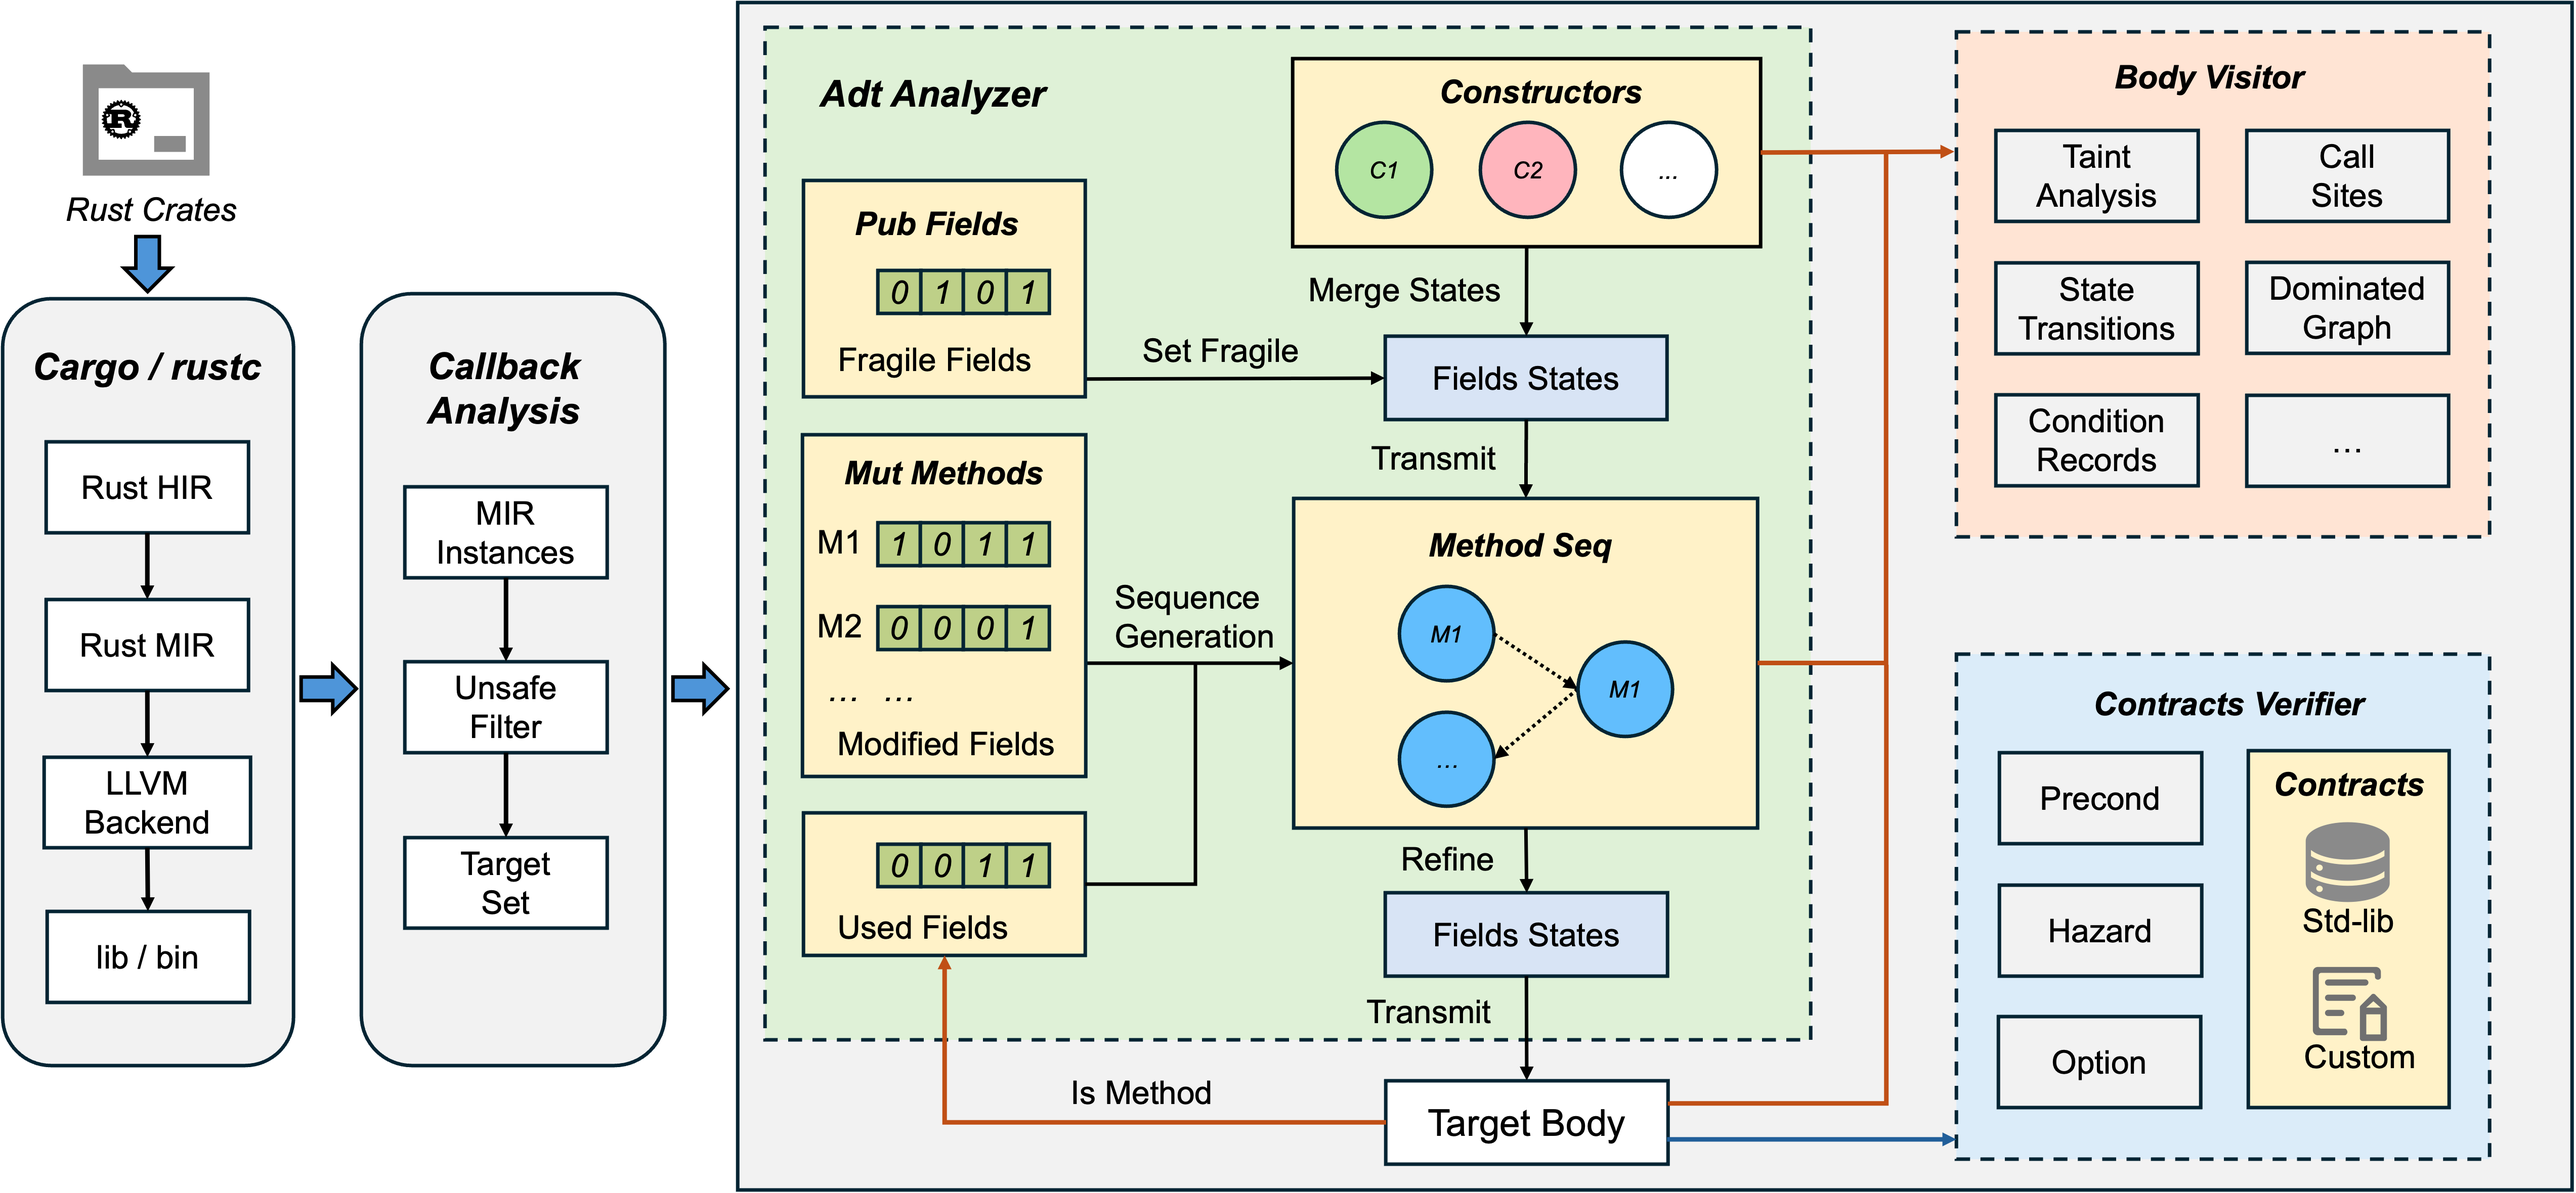
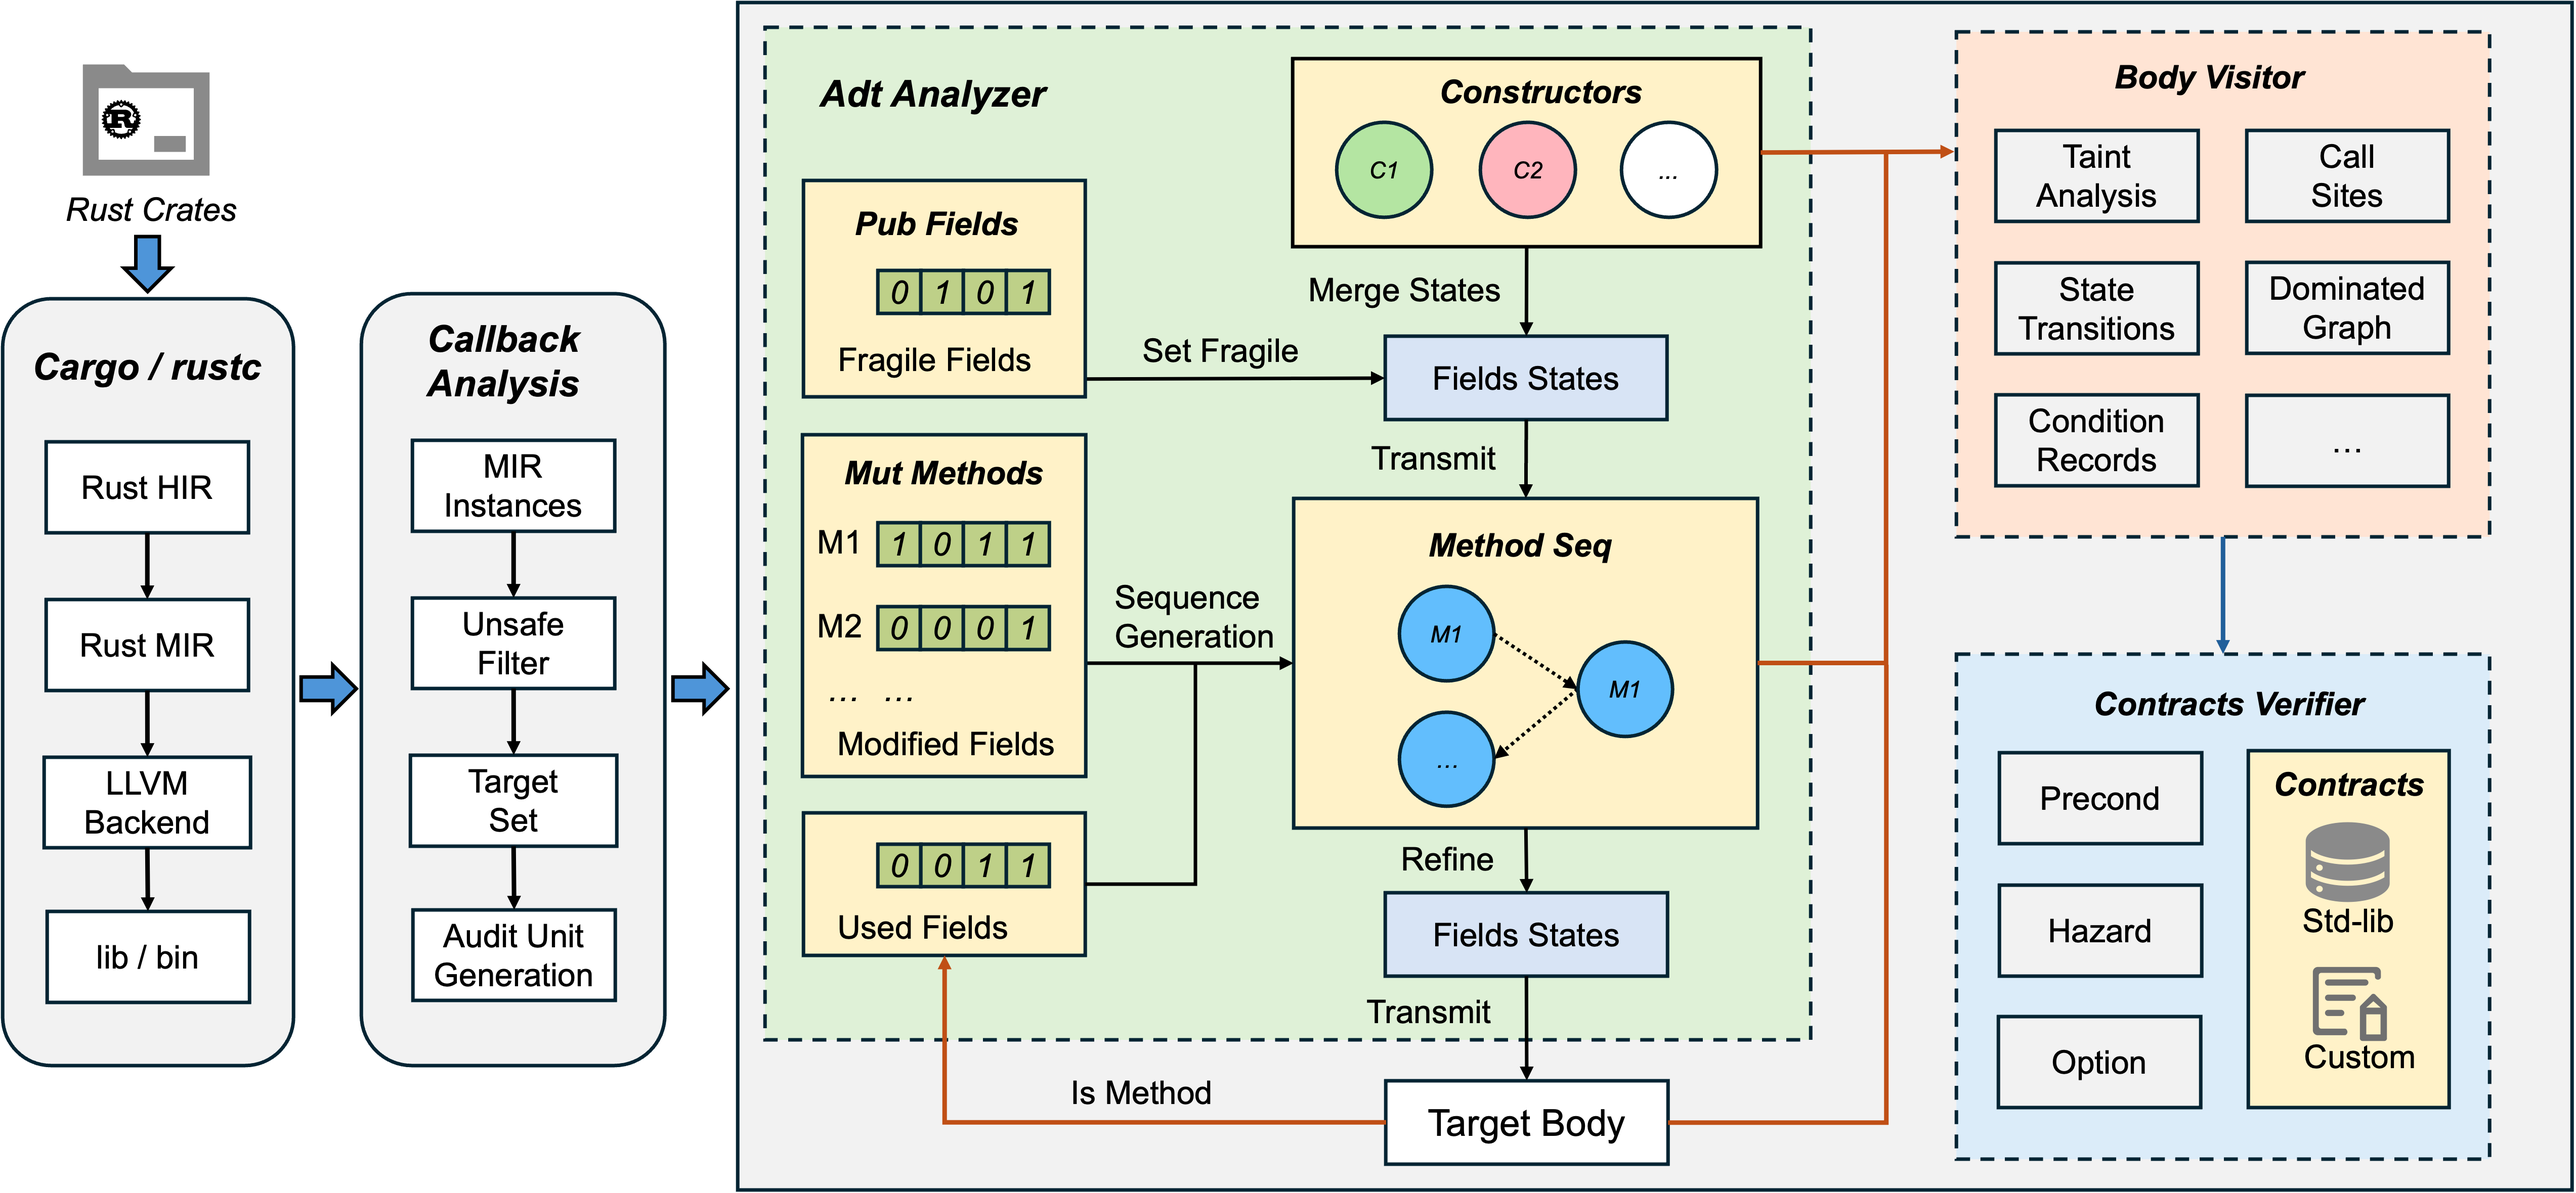
update workflow.png

Changed region(s): [[0.1561, 0.2784, 0.2498, 0.8661], [0.6557, 0.897, 0.7494, 0.9589]]

diff --git a/src/6.4-unsafe.md b/src/6.4-unsafe.md
@@ -110,11 +110,11 @@ Figure 1a-1c shows the specific generation process of the audit units for the co
 
 (1) **Compiler-Integrated Target Identification**: 
 
-RAPx leverages Rust's compiler callback to identify MIR instances and filter unsafe code segments as target set. Then pass the set to **Senryx**.
+RAPx leverages Rust's compiler callback to identify MIR instances and filter unsafe code segments as target set. Corresponding audit unit will be generated for each target, which serves as the basic verification entity for **Senryx**.
 
 (2) **Stateful Field Analysis**
 
-**Senryx** performs data-flow and state tracking on MIR bodies. If target is a method, then its constructors and other mutable methods will be evaluated for field modification patterns.
+**Senryx** performs data-flow and state tracking on MIR bodies. If the audit unit is of a multiple-node type, meaning the target is a method, the ADT analyzer will be loaded. The method's constructors and other mutable methods will be evaluated for field modification patterns.
 
 * **Fragile Fields**: The public fields within a structure are considered fragile because they can be accessed and modified from outside constructors. We are still exploring and evaluating the impact of fragile fields on safety properties.
 
